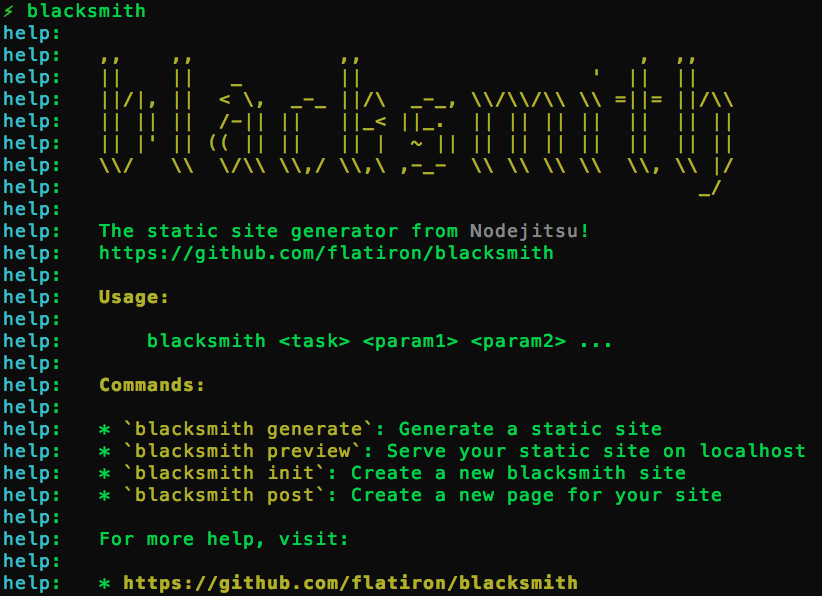
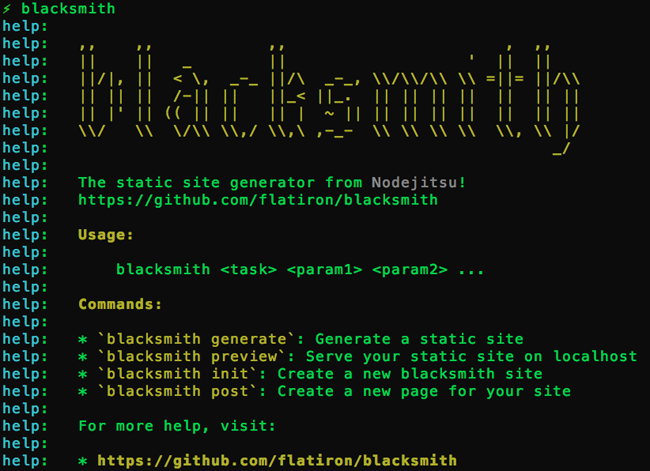
resize images. add additional twitter posts

diff --git a/public/frontpage.html b/public/frontpage.html
@@ -26,10 +26,10 @@
           new TWTR.Widget({
             version: 2,
             type: 'profile',
-            rpp: 1,
+            rpp: 4,
             interval: 30000,
             width: 'auto',
-            height: 80,
+            height: 400,
             theme: {
               shell: {
                 background: '#ffffff',

diff --git a/public/index.html b/public/index.html
@@ -25,10 +25,10 @@
           new TWTR.Widget({
             version: 2,
             type: 'profile',
-            rpp: 1,
+            rpp: 4,
             interval: 30000,
             width: 'auto',
-            height: 80,
+            height: 400,
             theme: {
               shell: {
                 background: '#ffffff',

diff --git a/theme/frontpage.html b/theme/frontpage.html
@@ -26,10 +26,10 @@
           new TWTR.Widget({
             version: 2,
             type: 'profile',
-            rpp: 1,
+            rpp: 4,
             interval: 30000,
             width: 'auto',
-            height: 80,
+            height: 400,
             theme: {
               shell: {
                 background: '#ffffff',
